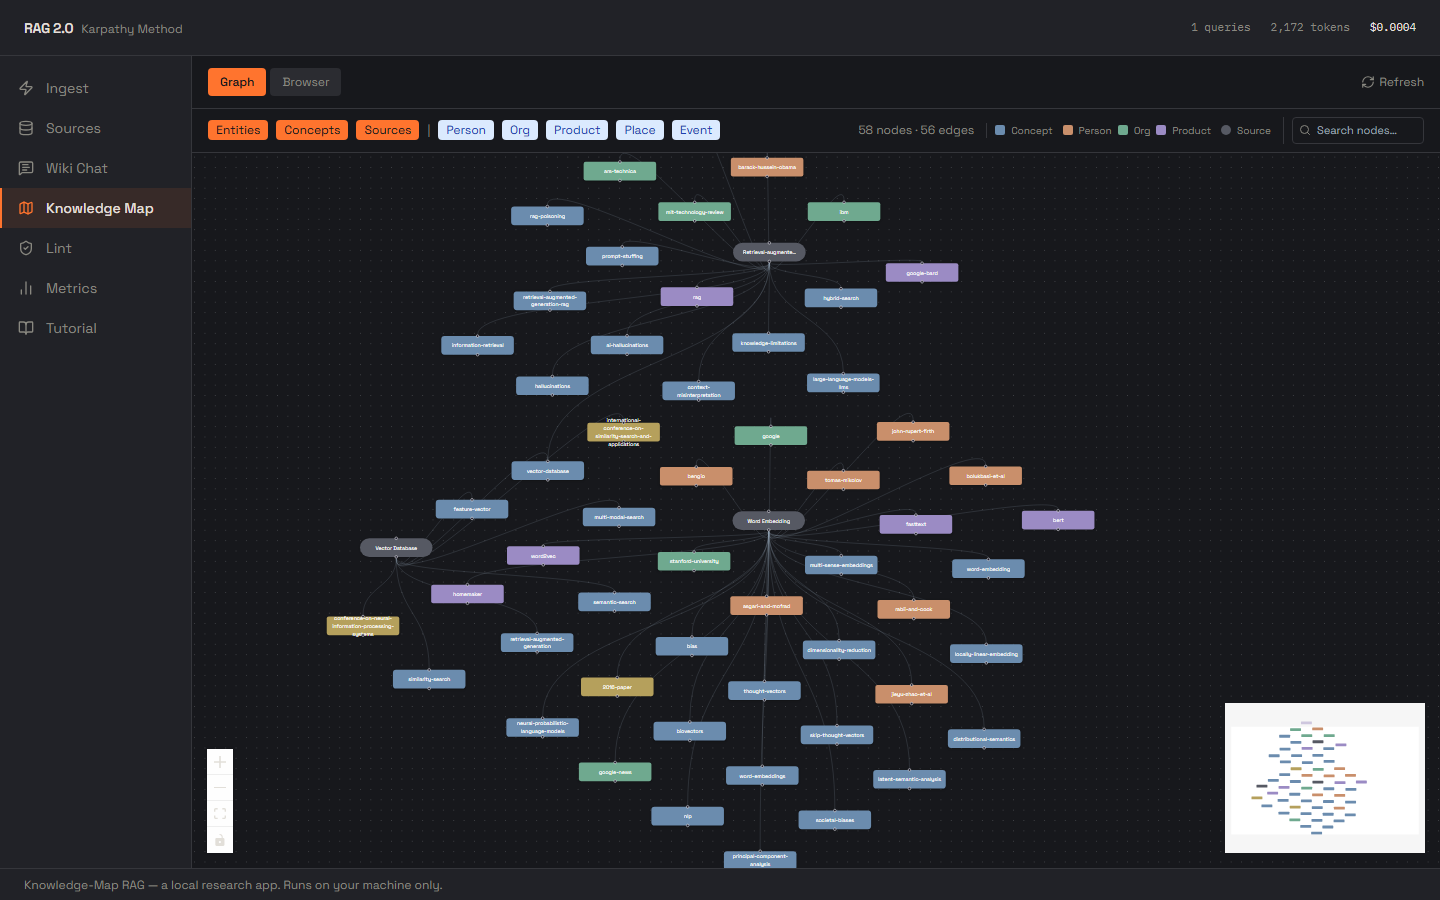
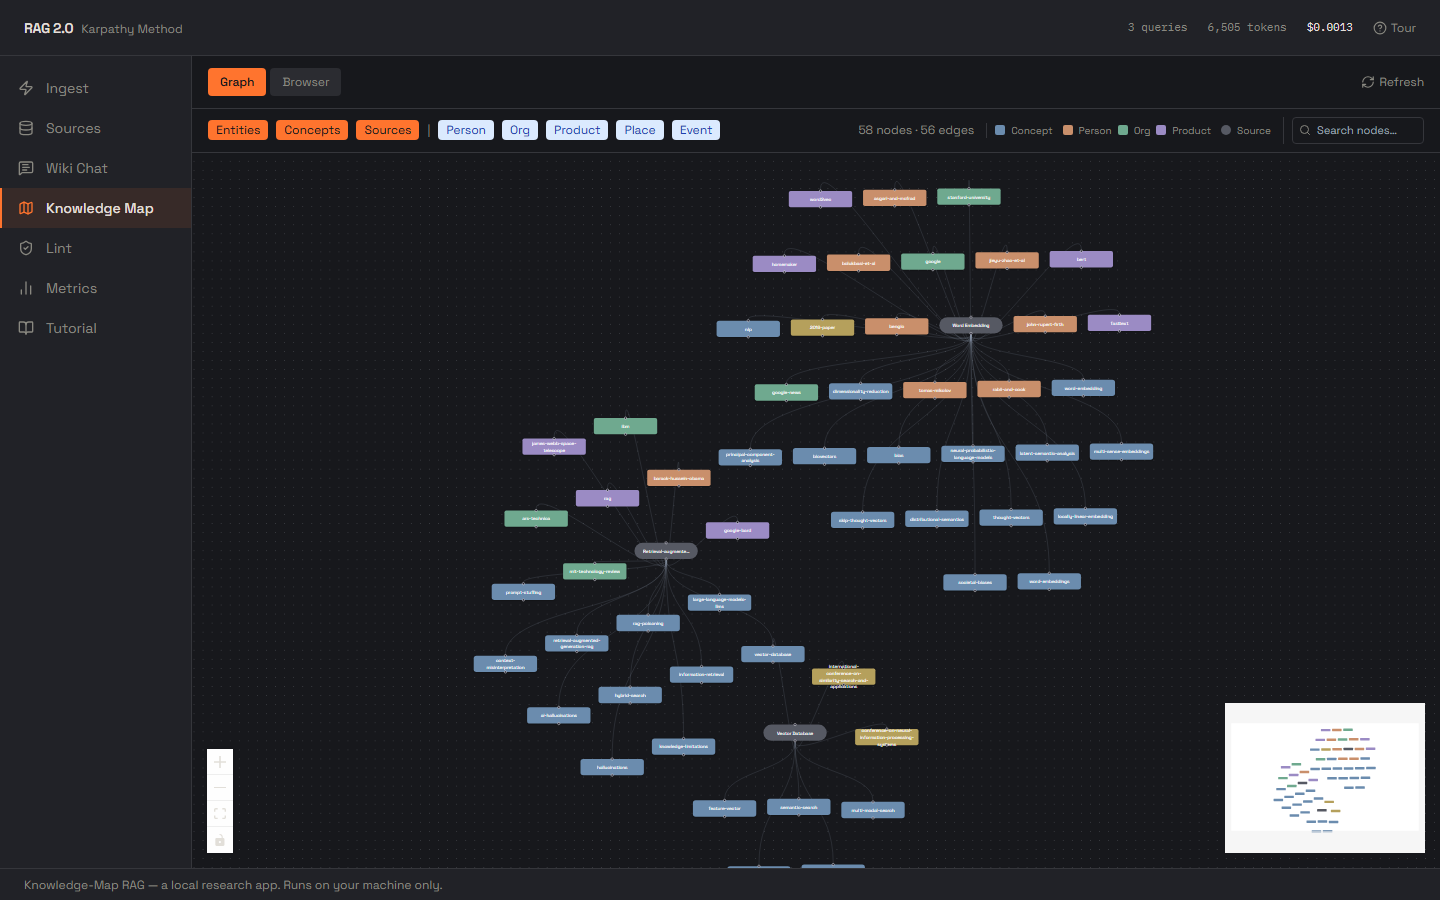
docs: bilingual README, screenshot gallery, accuracy pass
- README.pl.md — full Polish translation; EN ⇄ PL switcher at the top of both
- README leads with a 4-shot gallery (Knowledge Map / Ingest / Sources / Tutorial)
  and notes the first-run tour
- demo-corpus instructions switched to the backend/.env line (the inline
  WIKI_DATA_DIR=… uvicorn command doesn't work in PowerShell)
- frontend/README: React 18 → 19, add the type-check and e2e commands
- screenshots regenerated after the reskin + tour; +ingest, +sources

Claude-Session: https://claude.ai/code/session_015MJLcoKmATY2sFpa5wFpwY

diff --git a/frontend/e2e/screenshots.spec.ts b/frontend/e2e/screenshots.spec.ts
@@ -9,9 +9,12 @@ test.describe("@screenshots", () => {
 
   const dir = "../docs/screenshots";
 
-  test("wiki chat trace", async ({ page }) => {
-    await page.addInitScript(() => localStorage.clear());
+  test.beforeEach(async ({ page }) => {
+    await page.addInitScript(() => localStorage.setItem("tourSeen", "1"));
     await page.setViewportSize({ width: 1440, height: 900 });
+  });
+
+  test("wiki chat trace", async ({ page }) => {
     await page.goto("/");
     await page.getByRole("button", { name: "Wiki Chat", exact: true }).click();
     await page.getByPlaceholder("Ask a question about your wiki…")
@@ -23,7 +26,6 @@ test.describe("@screenshots", () => {
   });
 
   test("knowledge map", async ({ page }) => {
-    await page.setViewportSize({ width: 1440, height: 900 });
     await page.goto("/");
     await page.getByRole("button", { name: "Knowledge Map", exact: true }).click();
     await expect(page.locator(".react-flow__node").first()).toBeVisible({ timeout: 15_000 });
@@ -32,10 +34,23 @@ test.describe("@screenshots", () => {
   });
 
   test("tutorial", async ({ page }) => {
-    await page.setViewportSize({ width: 1440, height: 900 });
     await page.goto("/");
     await page.getByRole("button", { name: "Tutorial", exact: true }).click();
     await expect(page.getByRole("heading", { name: "What is Knowledge-Map RAG?" })).toBeVisible();
     await page.screenshot({ path: `${dir}/tutorial.png` });
+  });
+
+  test("sources", async ({ page }) => {
+    await page.goto("/");
+    await page.getByRole("button", { name: "Sources", exact: true }).click();
+    await expect(page.getByText("Retrieval-augmented generation", { exact: true })).toBeVisible();
+    await page.screenshot({ path: `${dir}/sources.png` });
+  });
+
+  test("ingest pipeline", async ({ page }) => {
+    await page.goto("/");
+    await page.getByRole("button", { name: "Ingest", exact: true }).click();
+    await expect(page.getByRole("heading", { name: "5-Stage Pipeline" })).toBeVisible();
+    await page.screenshot({ path: `${dir}/ingest.png` });
   });
 });

diff --git a/README.pl.md b/README.pl.md
@@ -1,0 +1,212 @@
+# RAG 2.0 — Karpathy Method
+
+*[English](README.md) · Polski*
+
+Lokalna, edukacyjna aplikacja webowa realizująca **Knowledge-Map RAG** — eksperyment
+zainspirowany krytyką naiwnego RAG autorstwa Andreja Karpathy'ego. Zamiast tłuc
+dokumenty na fragmenty i szukać po wektorach, system przy każdym wgraniu wyciąga ze
+źródła strukturalny graf wiedzy i odpowiada na pytania, rozumując nad tym grafem —
+pokazując każdy krok.
+
+To projekt badawczo-poznawczy: chodzi o to, żeby pipeline retrievalu był *czytelny*,
+a nie żeby był produkcyjnym stackiem RAG.
+
+![Wiki Chat — pytanie, jego 5-etapowy ślad retrievalu i cytowana odpowiedź](docs/screenshots/wiki-chat.png)
+
+Zadajesz pytanie, a pipeline przebiega u góry, etap po etapie; odpowiedź poniżej
+cytuje dokładnie te twierdzenia (claims), których użył.
+
+| | |
+|---|---|
+| [![Knowledge Map](docs/screenshots/knowledge-map.png)](docs/screenshots/knowledge-map.png) | [![Pipeline ingestu](docs/screenshots/ingest.png)](docs/screenshots/ingest.png) |
+| Graf, z którego budowane są odpowiedzi | 5-etapowy pipeline ingestu, dla każdego źródła |
+| [![Sources](docs/screenshots/sources.png)](docs/screenshots/sources.png) | [![Tutorial](docs/screenshots/tutorial.png)](docs/screenshots/tutorial.png) |
+| Każde wgrane źródło i co z niego wyciągnięto | Wbudowany przewodnik po całym podejściu |
+
+Przy pierwszej wizycie krótki tour przeprowadza przez panele — można go powtórzyć
+w dowolnej chwili przyciskiem **Tour** w nagłówku.
+
+## Dlaczego nie naiwny RAG?
+
+Klasyczny RAG (podziel → embeduj → szukaj po wektorach → wstaw do promptu → LLM)
+ma problem z:
+
+- **Sprzecznymi faktami** — dwa źródła się nie zgadzają; model dostaje oba i je miesza
+- **Pytaniami wieloprzeskokowymi** — odpowiedź wymaga połączenia faktów z kilku dokumentów
+- **Aktualizacjami w czasie** — nowsze źródło zaprzecza starszemu, ale stary fragment wygrywa na podobieństwie
+
+Knowledge-Map RAG wyciąga strukturę przy ingeście — encje, koncepty, twierdzenia
+(każde z proweniencją) i krawędzie — a potem odpowiada przez 5-etapowy pipeline
+rozumowania. Każde zdanie w odpowiedzi da się dociągnąć do konkretnego twierdzenia.
+
+## Architektura
+
+```
+  INGEST                            RETRIEVAL
+  ──────                            ─────────
+  Plik źródłowy                     Pytanie użytkownika
+     │                                  │
+  1. Parse       (deterministyczny) 1. Intent Parser     (LLM)
+  2. Classify    (LLM)              2. Candidate Filter   (leksykalny + semantyczny)
+  3. Resolve     (deterministyczny) 3. Selection          (LLM)
+  4. Conflict Detect (LLM)          4. Context Assembly
+  5. Save + Reindex                 5. Answer Generator   (LLM)
+     │                                  │
+  wiki_data/ (Markdown + JSONL)     QueryTrace (pełny ślad audytu)
+```
+
+Gdy retrieval nie jest pewny, przejmuje **agent fallback** z 10 narzędziami.
+
+**Przechowywanie:** płaskie pliki — strony Markdown plus logi JSONL twierdzeń i
+krawędzi. Bez bazy danych, bez usługi vector store. Przenośne, czytelne, diffowalne.
+
+## Panele
+
+| Panel | Co robi |
+|---|---|
+| **Ingest** | Podgląd, jak plik przechodzi przez 5-etapowy pipeline ingestu. Widok edukacyjny — pliki dodaje się w **Sources**. |
+| **Sources** | Każde wgrane źródło z jego tagami, streszczeniem, kluczowymi wnioskami i wygenerowanymi pytaniami. Wgrywanie plików lub import z URL. |
+| **Wiki Chat** | Zadajesz pytanie i widzisz pełny ślad retrievalu: intent, ocenionych kandydatów, selekcję LLM, złożony kontekst, cytowaną odpowiedź. |
+| **Knowledge Map** | Graf encji i konceptów. Kliknij węzeł, żeby zobaczyć jego twierdzenia, krawędzie i źródła. |
+| **Lint** | Kontrola integralności wiki — węzły-sieroty, brak proweniencji, sprzeczności, kolizje aliasów, nieaktualne opisy. Część z auto-poprawką. |
+| **Metrics** | Zużycie tokenów w sesji i szacowany koszt. |
+| **Tutorial** | Wbudowany przewodnik po architekturze plus interaktywne walkthroughs. |
+
+## Stack
+
+| Warstwa | Technologia |
+|---|---|
+| Backend | FastAPI · Python 3.11+ |
+| Frontend | React 19 · TypeScript · Vite · Tailwind |
+| LLM | OpenAI API (domyślnie `gpt-4o-mini` i `text-embedding-3-small`) |
+| Przechowywanie | Płaskie pliki — Markdown + JSONL |
+
+## Instalacja
+
+### Wymagania
+
+- Python 3.11+
+- Node.js 18+
+- Klucz API OpenAI
+
+### 1. Środowisko backendu
+
+```bash
+cd backend
+python -m venv .venv
+source .venv/bin/activate        # Windows: .venv\Scripts\activate
+pip install -r requirements.txt
+cp .env.example .env             # potem wpisz OPENAI_API_KEY do .env
+```
+
+### 2. Zależności frontendu
+
+```bash
+cd frontend
+npm install
+```
+
+### 3. Uruchom oba
+
+```bash
+./dev.sh        # macOS / Linux
+.\dev.ps1       # Windows (PowerShell)
+```
+
+Uruchamia API na `http://localhost:8000` (Swagger pod `/docs`) i aplikację na
+`http://localhost:5173`. Vite proxuje `/api` do backendu, więc nie ma nic więcej
+do konfiguracji. Ctrl+C zatrzymuje oba.
+
+Żeby uruchomić osobno:
+
+```bash
+cd backend  && uvicorn main:app --port 8000
+cd frontend && npm run dev
+```
+
+> Na części konfiguracji Windows `uvicorn --reload` umiera po pierwszym przeładowaniu
+> i serwuje stary kod. Jeśli to trafisz — odpalaj bez `--reload` i restartuj ręcznie.
+
+## Wypróbuj bez wgrywania czegokolwiek
+
+`wiki_data/default` startuje pusty. Żeby zobaczyć aplikację z gotowym grafem, wskaż
+dołączony demo-korpus (3 artykuły z Wikipedii o RAG, bazach wektorowych i
+word embeddings) — odkomentuj tę linię w `backend/.env`:
+
+```
+WIKI_DATA_DIR=wiki_data/.example
+```
+
+**Sources**, **Knowledge Map** i **Lint** działają bez klucza API. **Wiki Chat** i
+**Ingest** wołają OpenAI, więc dalej potrzebują klucza. Zobacz
+`backend/wiki_data/.example/README.md`.
+
+Przykładowe pytania:
+
+- *What problem with large language models does retrieval-augmented generation address?*
+- *How do vector databases find similar records?*
+- *How are word embeddings related to vector search?*
+
+## Własne źródła
+
+1. W **Sources** wrzuć pliki `.pdf`, `.docx`, `.txt` lub `.md`, albo zaimportuj z URL
+2. Poczekaj, aż pipeline ingestu skończy
+3. Zadawaj pytania w **Wiki Chat** i czytaj ślad
+4. Eksploruj powiązania w **Knowledge Map**
+5. Uruchamiaj **Lint** co kilka ingestów, żeby wyłapać sprzeczności i luki
+
+Retrieval działa najlepiej przy konkretnych pytaniach faktograficznych („Kto założył
+X?", „Czym A różni się od B?") nad kilkoma źródłami, które się wzajemnie uzupełniają.
+Bardzo szerokie prompty („opowiedz mi wszystko") z założenia wypadają słabo.
+
+## Układ projektu
+
+```
+backend/
+├── api/                    routery FastAPI
+├── models/                 modele Pydantic
+├── services/
+│   ├── ingest_pipeline.py  5-etapowy ingest
+│   ├── retrieval/          5-etapowy retrieval + agent fallback
+│   ├── lint/               kontrole integralności
+│   ├── wiki_store.py       odczyt/zapis wiki_data/
+│   └── wiki_index.py       regeneracja 00-Index
+├── scripts/                skrypty eval + utrzymaniowe
+├── tests/                  ~470 testów jednostkowych + integracyjnych
+└── wiki_data/
+    ├── default/            twoja baza wiedzy (git-ignored, startuje pusta)
+    └── .example/           dołączony demo-korpus
+
+frontend/src/
+├── api/client.ts           typowany klient API
+└── components/             jeden folder na panel
+```
+
+## Struktura danych wiki
+
+```
+wiki_data/<nazwa>/
+├── raw/                    sparsowane kopie każdego źródła
+└── wiki/
+    ├── 00-Index/           auto-generowany główny indeks
+    ├── 10-Concepts/        jeden plik Markdown na koncept
+    ├── 20-Entities/        jeden plik Markdown na encję
+    ├── 30-Sources/         strony metadanych źródeł
+    ├── claims.jsonl        każde wyciągnięte twierdzenie
+    ├── edges.jsonl         każda wyciągnięta relacja
+    └── embeddings/         wektory twierdzeń do recallu semantycznego
+```
+
+## Testy
+
+```bash
+cd backend && python -m pytest -q     # ~470 testów jednostkowych + integracyjnych
+
+cd frontend && npm run test:e2e       # smoke suite Playwright — uruchamia (lub reużywa)
+                                      # serwery dev, backend na demo-korpusie, bez klucza API
+```
+
+## Licencja
+
+MIT — zobacz [LICENSE](LICENSE). Demo-korpus w `backend/wiki_data/.example/` to
+tekst z Wikipedii (CC BY-SA 4.0); zobacz jego `ATTRIBUTION.md`.

diff --git a/README.md b/README.md
@@ -1,5 +1,7 @@
 # RAG 2.0 — Karpathy Method
 
+*English · [Polski](README.pl.md)*
+
 A local, educational web app that implements **Knowledge-Map RAG** — an experiment
 inspired by Andrej Karpathy's critique of naive retrieval-augmented generation.
 Instead of chunking documents and doing vector search, the system extracts a
@@ -12,9 +14,17 @@ legible, not to be a production RAG stack.
 ![Wiki Chat — a question, its 5-stage retrieval trace, and the cited answer](docs/screenshots/wiki-chat.png)
 
 Ask a question and the pipeline runs across the top, one stage at a time; the
-answer below cites the exact claims it used. The
-[Knowledge Map](docs/screenshots/knowledge-map.png) shows the graph those claims
-live in.
+answer below cites the exact claims it used.
+
+| | |
+|---|---|
+| [![Knowledge Map](docs/screenshots/knowledge-map.png)](docs/screenshots/knowledge-map.png) | [![Ingest pipeline](docs/screenshots/ingest.png)](docs/screenshots/ingest.png) |
+| The graph your answers are built from | The 5-stage ingest pipeline, per source |
+| [![Sources](docs/screenshots/sources.png)](docs/screenshots/sources.png) | [![Tutorial](docs/screenshots/tutorial.png)](docs/screenshots/tutorial.png) |
+| Every ingested source and what was extracted | An in-app guide to the whole approach |
+
+On the first visit a short tour walks you through the panels — replay it any time
+from the **Tour** button in the header.
 
 ## Why not naive RAG?
 
@@ -118,13 +128,12 @@ cd frontend && npm run dev
 
 ## Try it without ingesting anything
 
-A `wiki_data/default` starts empty. To explore the app with a pre-built graph, point
+`wiki_data/default` starts empty. To explore the app with a pre-built graph, point
 it at the bundled demo corpus (3 Wikipedia articles on RAG, vector databases, and
-word embeddings):
+word embeddings) — uncomment this line in `backend/.env`:
 
-```bash
-cd backend
-WIKI_DATA_DIR=wiki_data/.example uvicorn main:app --port 8000
+```
+WIKI_DATA_DIR=wiki_data/.example
 ```
 
 **Sources**, **Knowledge Map**, and **Lint** work with no API key. **Wiki Chat** and
@@ -162,7 +171,7 @@ backend/
 │   ├── wiki_store.py       read/write wiki_data/
 │   └── wiki_index.py       regenerate 00-Index
 ├── scripts/                eval + maintenance scripts
-├── tests/                  ~465 unit + integration tests
+├── tests/                  ~470 unit + integration tests
 └── wiki_data/
     ├── default/            your knowledge base (git-ignored, starts empty)
     └── .example/           bundled demo corpus
@@ -190,11 +199,10 @@ wiki_data/<name>/
 ## Tests
 
 ```bash
-cd backend && python -m pytest -q          # ~465 unit + integration tests
+cd backend && python -m pytest -q     # ~470 unit + integration tests
 
-cd frontend
-npm run test:e2e                           # Playwright smoke suite (needs the dev servers;
-                                           # runs the backend on the demo corpus, no API key)
+cd frontend && npm run test:e2e       # Playwright smoke suite — starts (or reuses) the dev
+                                      # servers, runs the backend on the demo corpus, no API key
 ```
 
 ## License

diff --git a/backend/wiki_data/.example/README.md b/backend/wiki_data/.example/README.md
@@ -3,16 +3,14 @@
 A pre-built knowledge base (3 Wikipedia articles on RAG, vector databases, and
 word embeddings) so you can explore the app before ingesting anything of your own.
 
-**Try it:**
+**Try it:** uncomment this line in `backend/.env`, then start the backend as usual:
 
-```bash
-cd backend
-WIKI_DATA_DIR=wiki_data/.example uvicorn main:app --port 8000
+```
+WIKI_DATA_DIR=wiki_data/.example
 ```
 
-Then open the frontend and browse **Sources**, **Knowledge Map**, and **Lint**
-without an API key. **Wiki Chat** and **Ingest** still call OpenAI, so those need
-`OPENAI_API_KEY` in `backend/.env`.
+Then browse **Sources**, **Knowledge Map**, and **Lint** without an API key.
+**Wiki Chat** and **Ingest** still call OpenAI, so those need `OPENAI_API_KEY`.
 
 Sample questions that exercise cross-source retrieval:
 

diff --git a/frontend/README.md b/frontend/README.md
@@ -1,10 +1,14 @@
 # Frontend
 
-React 18 + TypeScript + Vite. See the [root README](../README.md) for setup instructions.
+React 19 + TypeScript + Vite + Tailwind. See the [root README](../README.md) for setup.
 
 ```bash
 npm install
-npm run dev      # http://localhost:5173
+npm run dev                              # http://localhost:5173
 npm run build
-npx tsc -p tsconfig.app.json --noEmit  # type check
+npx tsc -p tsconfig.app.json --noEmit    # type check
+npm run test:e2e                         # Playwright smoke suite
 ```
+
+`npm run dev` proxies `/api` to the backend on `http://localhost:8000`
+(override with `VITE_PROXY_TARGET`).
